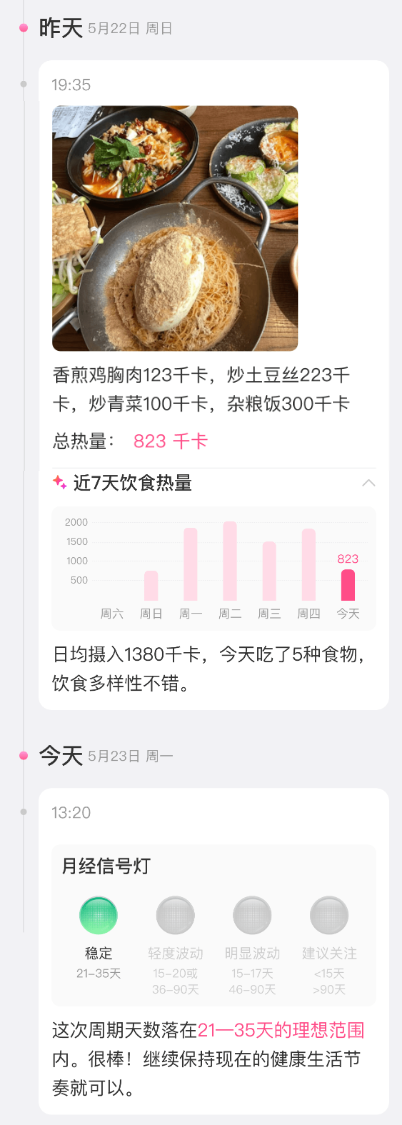
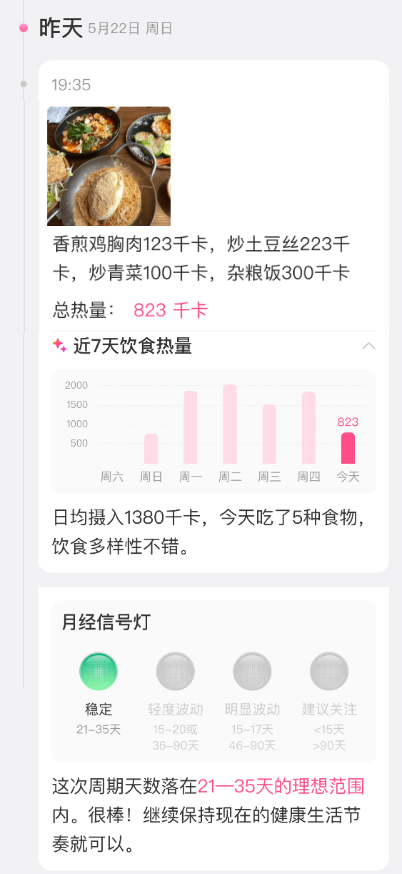
Shorten scheme six preview image

diff --git a/diandi-empty-playground.html b/diandi-empty-playground.html
@@ -1606,8 +1606,8 @@ html,body{
 }
 .ep-s6-example-card{
   width:100%;
-  max-width:232px;
-  aspect-ratio:402/1125;
+  max-width:280px;
+  aspect-ratio:402/874;
   border-radius:20px;
   background:#f2f2f5;
   box-shadow:0 18px 54px rgba(40,40,48,.08);